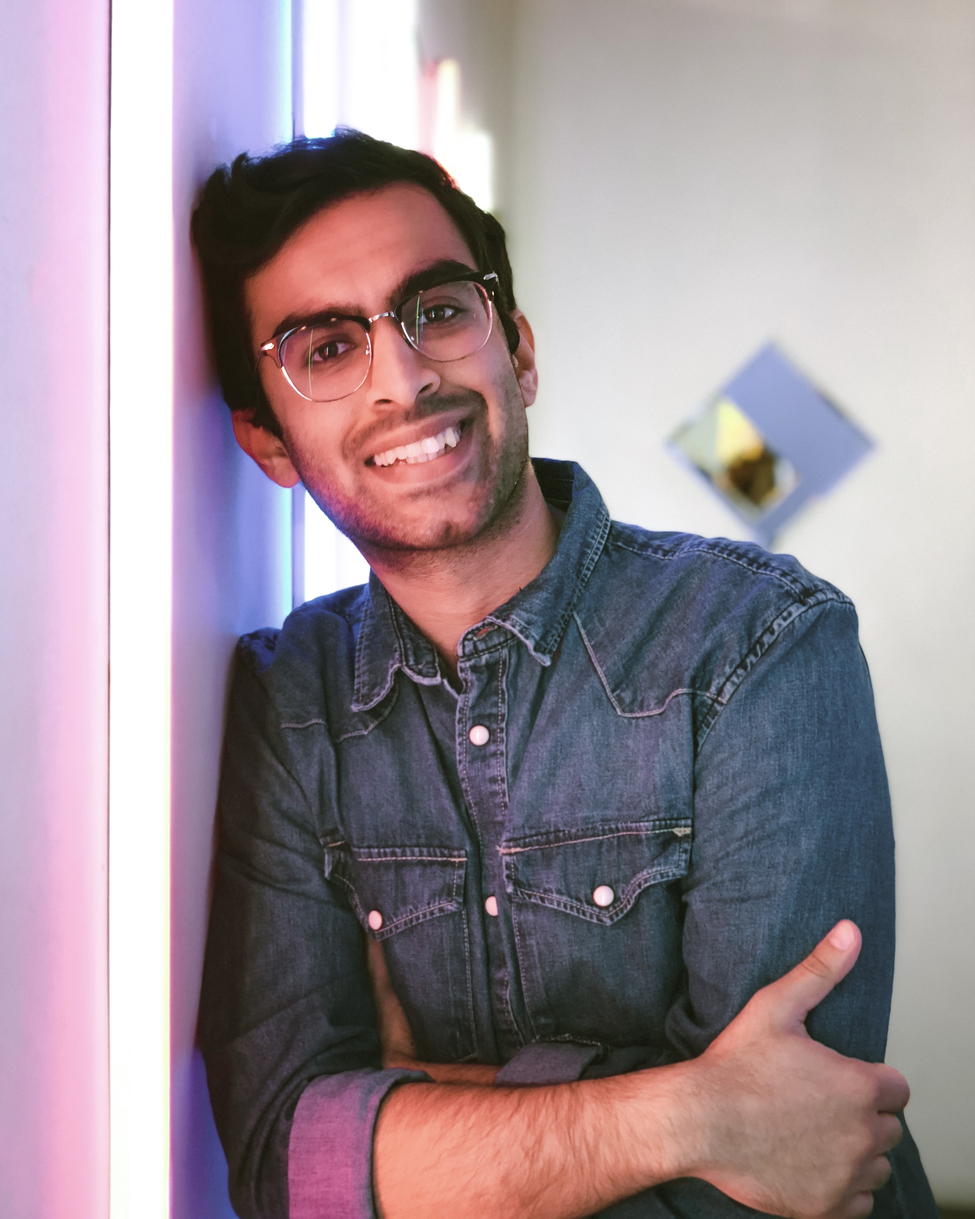
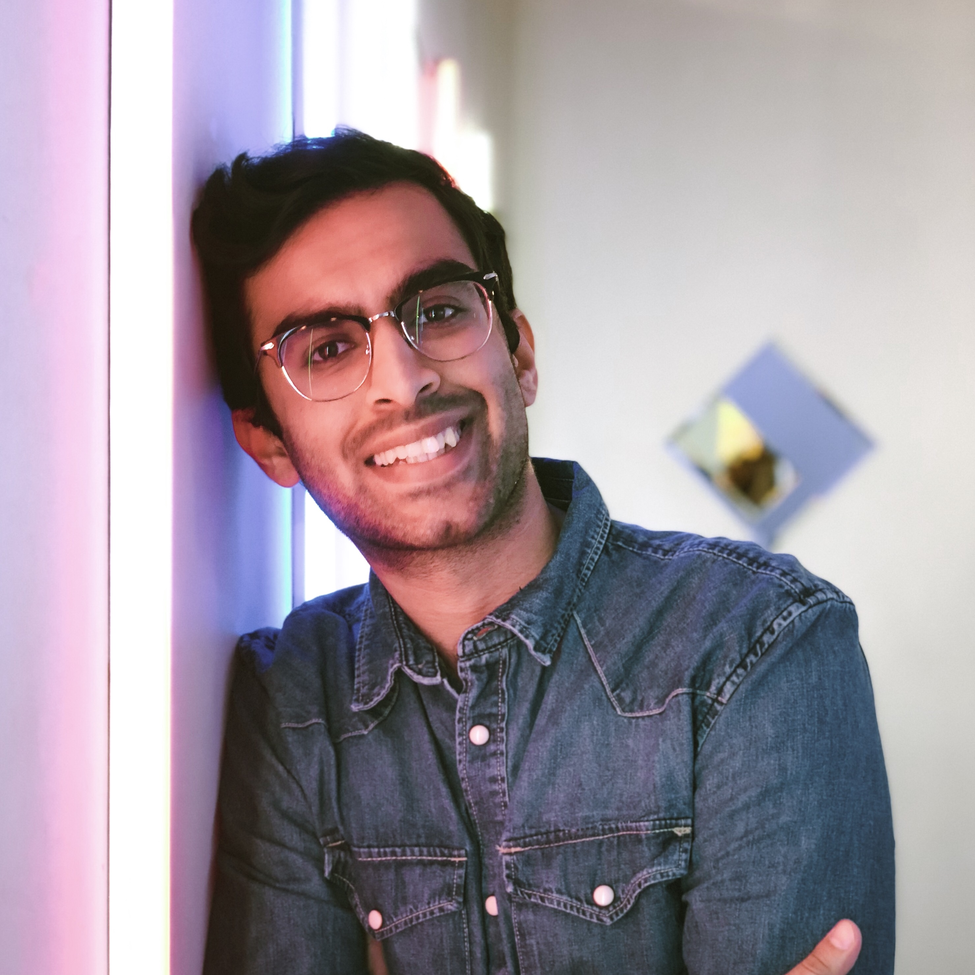
added about me + some content, fixed image

diff --git a/index.html b/index.html
@@ -77,11 +77,20 @@
             <circle cx="70" cy="70" r="70" fill="#FFFFFF" />            
         </clipPath>
     </defs>
-<image width="140" height="140" href="images/IMG_9230.JPG" clip-path="url(#circleView)" />
+<image width="140" height="140" href="images/IMG_9230.jpg" clip-path="url(#circleView)" />
     
  </svg>
-    <h1>Bootstrap starter template</h1>
-    <p class="lead">Use this document as a way to quickly start any new project.<br> All you get is this text and a mostly barebones HTML document.</p>
+    <h1>Geet Massand</h1>
+    <h5>teeg77@gmail.com</h5>
+  </div>
+    
+  <div class="starter-template">
+  
+      <h6>about me</h6>
+      <ul>
+        <li>New Jersey native</li>
+        <li>Rutgers University Class of 2019 graduate</li>
+      </ul>
   </div>
 
 </main><!-- /.container -->

diff --git a/css/custom.css b/css/custom.css
@@ -2,7 +2,7 @@ body {
   padding-top: 5rem;
 }
 .starter-template {
-  padding: 3rem 1.5rem;
+  padding: 1rem 1.5rem;
   text-align: center;
 }
 
@@ -14,4 +14,10 @@ footer {
   bottom: 0;
   width: 100%;
   height: 2.5rem;    
+}
+
+ul { 
+    display:table;
+    margin:0 auto;
+    text-align: left
 }
